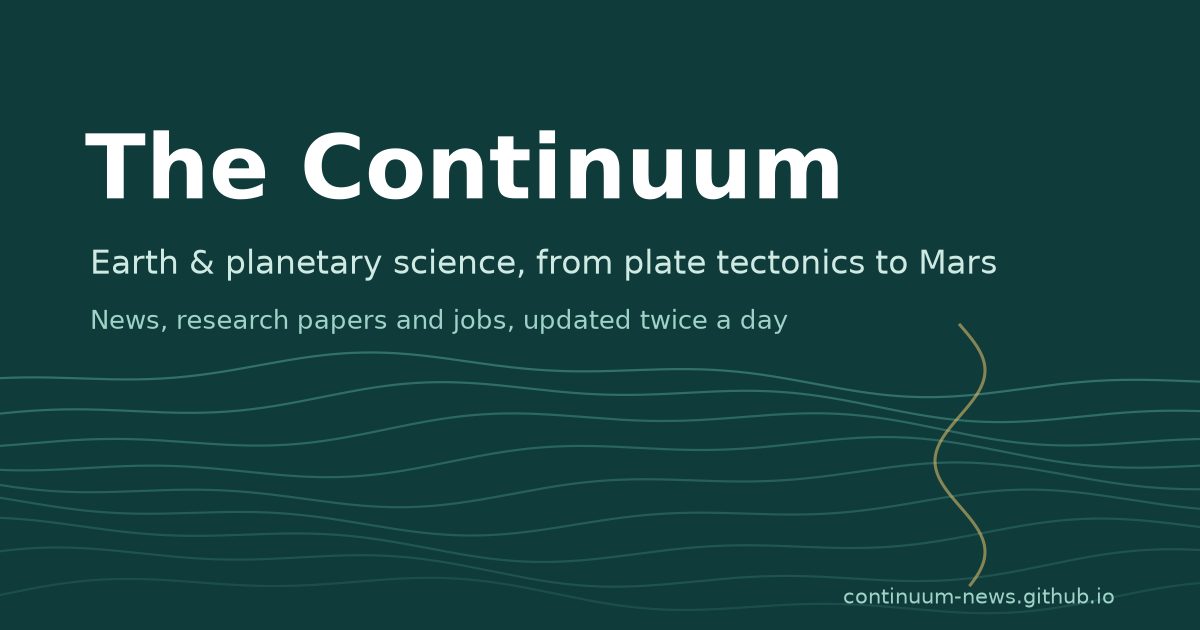
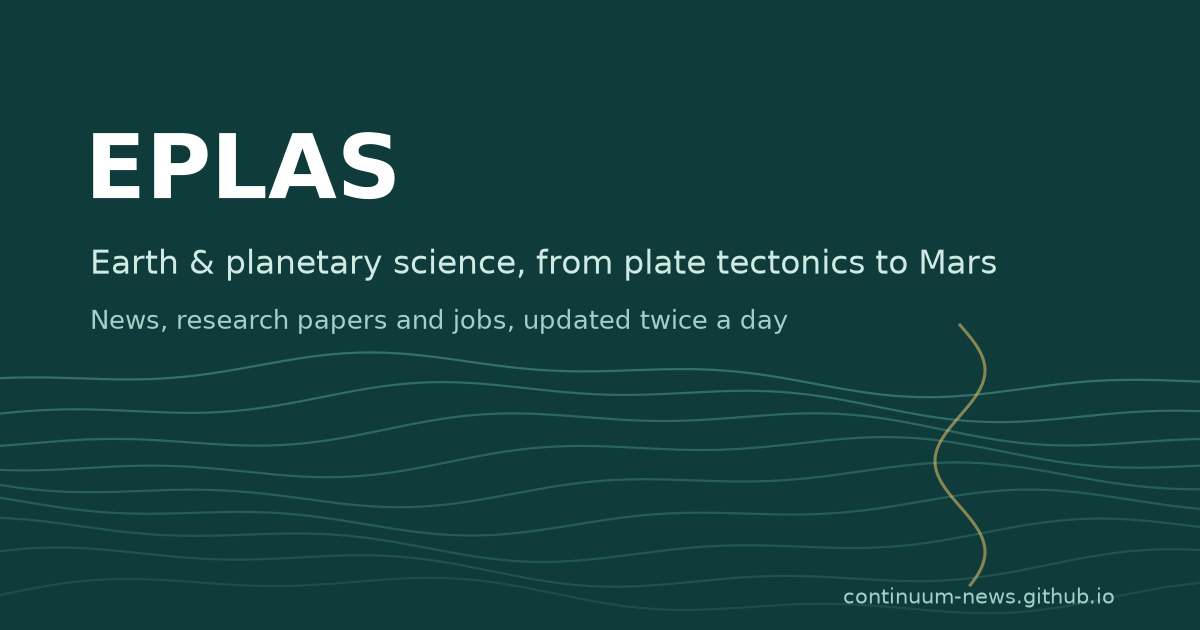
Rename the site to EPLAS (Earth & Planetary Science)

Changed region(s): [[0.0617, 0.2111, 0.7092, 0.3317]]

diff --git a/collector/heg_site.html b/collector/heg_site.html
@@ -1,17 +1,17 @@
-<title>The Continuum · news, papers and jobs</title>
+<title>EPLAS · Earth &amp; planetary science news, papers and jobs</title>
 <meta name="description" content="News, research papers and jobs across Earth and planetary science: geology, plate tectonics, volcanoes and earthquakes, hydrogeology, engineering geology, paleontology, ecology, geophysics, Mars and planetary geology, climate and policy. Updated twice a day.">
 <meta name="robots" content="index, follow">
 <link rel="canonical" href="https://continuum-news.github.io/">
 <meta property="og:type" content="website">
-<meta property="og:site_name" content="The Continuum">
-<meta property="og:title" content="The Continuum · news, papers and jobs">
+<meta property="og:site_name" content="EPLAS">
+<meta property="og:title" content="EPLAS · Earth &amp; planetary science news, papers and jobs">
 <meta property="og:description" content="Earth and planetary science, from plate tectonics and fossils to groundwater and Mars: the day's news, new research papers and open jobs, updated twice a day.">
 <meta property="og:url" content="https://continuum-news.github.io/">
 <meta property="og:image" content="https://continuum-news.github.io/og-image.png">
 <meta property="og:image:width" content="1200">
 <meta property="og:image:height" content="630">
 <meta name="twitter:card" content="summary_large_image">
-<meta name="twitter:title" content="The Continuum · news, papers and jobs">
+<meta name="twitter:title" content="EPLAS · Earth &amp; planetary science news, papers and jobs">
 <meta name="twitter:description" content="Earth and planetary science: news, research papers and jobs, updated twice a day.">
 <meta name="twitter:image" content="https://continuum-news.github.io/og-image.png">
 <meta name="theme-color" content="#0f3b3a">
@@ -332,7 +332,7 @@ footer ul { columns: 3 200px; margin: 8px 0 0; padding-left: 18px; }
 </style>
 
 <header class="top"><div class="wrap">
-  <div class="brand"><h1>The <span>Continuum</span></h1><small>Earth &amp; planetary science · news, research papers and jobs</small></div>
+  <div class="brand"><h1><span>EPLAS</span></h1><small>Earth &amp; planetary science · news, research papers, jobs and conferences</small></div>
   <nav class="tabs" aria-label="Sections">
     <a href="#today">Today</a><a href="#branches">Branches</a><a href="#news">News</a><a href="#papers">Papers</a><a href="#jobs">Jobs</a><a href="#conferences">Conferences</a><a href="#community">Community</a>
   </nav>
@@ -618,7 +618,7 @@ function ics(list) {
   const now = new Date().toISOString().replace(/[-:]/g, "").slice(0, 15) + "Z";
   const ev = list.map((m) => ["BEGIN:VEVENT", `UID:${m.id}@continuum-news.github.io`, `DTSTAMP:${now}`, `DTSTART;VALUE=DATE:${stamp(m.start)}`, `DTEND;VALUE=DATE:${stamp(nextDay(m.end))}`,
     `SUMMARY:${x(m.name)}`, `LOCATION:${x(where(m))}`, `DESCRIPTION:${x(`${m.org}\n${m.url}`)}`, `URL:${m.url}`, "END:VEVENT"].join("\r\n"));
-  return ["BEGIN:VCALENDAR", "VERSION:2.0", "PRODID:-//The Continuum//Conferences//EN", "CALSCALE:GREGORIAN", ...ev, "END:VCALENDAR"].join("\r\n");
+  return ["BEGIN:VCALENDAR", "VERSION:2.0", "PRODID:-//EPLAS//Conferences//EN", "CALSCALE:GREGORIAN", ...ev, "END:VCALENDAR"].join("\r\n");
 }
 function saveIcs(list, name) {
   const a = document.createElement("a");
@@ -669,7 +669,7 @@ const STARTS = [
   { slug: "q-a", name: "Ask a question", emoji: "🙏", about: "Methods, software, field problems, papers you can't make sense of. Mark the reply that answered it." },
   { slug: "show-and-tell", name: "Share your work", emoji: "🙌", about: "A paper, map, dataset, field photo, code or thesis. Tell people what you found." },
   { slug: "general", name: "Start a conversation", emoji: "💬", about: "Anything Earth and planetary: news you want to discuss, collaborators you're looking for, a hello." },
-  { slug: "ideas", name: "Suggest an idea", emoji: "💡", about: "Sources, branches or features you'd like to see on The Continuum." },
+  { slug: "ideas", name: "Suggest an idea", emoji: "💡", about: "Sources, branches or features you'd like to see on EPLAS." },
   { slug: "polls", name: "Run a poll", emoji: "🗳", about: "Ask the community to vote: favourite field software, conference plans, anything." },
 ];
 function newThread(slug, extra = {}) {
@@ -689,7 +689,7 @@ function viewCommunity() {
   const items = COMM.items || [];
   const shown = items.filter((t) => !S.cfield || t.labels.includes(S.cfield));
   return `<div class="comm">
-    <div class="comm-hero"><div><small>The Continuum community</small><h2>Talk Earth and planetary science with people who do it</h2>
+    <div class="comm-hero"><div><small>The EPLAS community</small><h2>Talk Earth and planetary science with people who do it</h2>
       <p>Ask questions, share your work, find collaborators and swap career advice with students, researchers and professionals in every branch, from groundwater to Mars.</p>
       <div class="mact"><a class="btn primary" href="${esc(newThread("general"))}" target="_blank" rel="noopener">Start a discussion</a><a class="btn" href="${FORUM}" target="_blank" rel="noopener">Browse the forum</a></div>
       <p class="fine">The forum runs on GitHub Discussions. Reading is open to everyone; posting needs a free GitHub account.</p></div></div>

diff --git a/collector/heg_body.html b/collector/heg_body.html
@@ -1,17 +1,17 @@
-<title>The Continuum · news, papers and jobs</title>
+<title>EPLAS · Earth &amp; planetary science news, papers and jobs</title>
 <meta name="description" content="News, research papers and jobs across Earth and planetary science: geology, plate tectonics, volcanoes and earthquakes, hydrogeology, engineering geology, paleontology, ecology, geophysics, Mars and planetary geology, climate and policy. Updated twice a day.">
 <meta name="robots" content="index, follow">
 <link rel="canonical" href="https://continuum-news.github.io/">
 <meta property="og:type" content="website">
-<meta property="og:site_name" content="The Continuum">
-<meta property="og:title" content="The Continuum · news, papers and jobs">
+<meta property="og:site_name" content="EPLAS">
+<meta property="og:title" content="EPLAS · Earth &amp; planetary science news, papers and jobs">
 <meta property="og:description" content="Earth and planetary science, from plate tectonics and fossils to groundwater and Mars: the day's news, new research papers and open jobs, updated twice a day.">
 <meta property="og:url" content="https://continuum-news.github.io/">
 <meta property="og:image" content="https://continuum-news.github.io/og-image.png">
 <meta property="og:image:width" content="1200">
 <meta property="og:image:height" content="630">
 <meta name="twitter:card" content="summary_large_image">
-<meta name="twitter:title" content="The Continuum · news, papers and jobs">
+<meta name="twitter:title" content="EPLAS · Earth &amp; planetary science news, papers and jobs">
 <meta name="twitter:description" content="Earth and planetary science: news, research papers and jobs, updated twice a day.">
 <meta name="twitter:image" content="https://continuum-news.github.io/og-image.png">
 <meta name="theme-color" content="#0f3b3a">
@@ -161,7 +161,7 @@
 </style>
 
 <header class="top"><div class="wrap">
-  <div class="brand"><h1>The <span>Continuum</span></h1><small>Earth &amp; planetary science · news, research papers and jobs</small></div>
+  <div class="brand"><h1><span>EPLAS</span></h1><small>Earth &amp; planetary science · news, research papers, jobs and conferences</small></div>
   <nav class="tabs" aria-label="Sections">
     <a href="#today">Today</a><a href="#branches">Branches</a><a href="#news">News</a><a href="#papers">Papers</a><a href="#jobs">Jobs</a><a href="#conferences">Conferences</a><a href="#community">Community</a>
   </nav>
@@ -447,7 +447,7 @@ function ics(list) {
   const now = new Date().toISOString().replace(/[-:]/g, "").slice(0, 15) + "Z";
   const ev = list.map((m) => ["BEGIN:VEVENT", `UID:${m.id}@continuum-news.github.io`, `DTSTAMP:${now}`, `DTSTART;VALUE=DATE:${stamp(m.start)}`, `DTEND;VALUE=DATE:${stamp(nextDay(m.end))}`,
     `SUMMARY:${x(m.name)}`, `LOCATION:${x(where(m))}`, `DESCRIPTION:${x(`${m.org}\n${m.url}`)}`, `URL:${m.url}`, "END:VEVENT"].join("\r\n"));
-  return ["BEGIN:VCALENDAR", "VERSION:2.0", "PRODID:-//The Continuum//Conferences//EN", "CALSCALE:GREGORIAN", ...ev, "END:VCALENDAR"].join("\r\n");
+  return ["BEGIN:VCALENDAR", "VERSION:2.0", "PRODID:-//EPLAS//Conferences//EN", "CALSCALE:GREGORIAN", ...ev, "END:VCALENDAR"].join("\r\n");
 }
 function saveIcs(list, name) {
   const a = document.createElement("a");
@@ -498,7 +498,7 @@ const STARTS = [
   { slug: "q-a", name: "Ask a question", emoji: "🙏", about: "Methods, software, field problems, papers you can't make sense of. Mark the reply that answered it." },
   { slug: "show-and-tell", name: "Share your work", emoji: "🙌", about: "A paper, map, dataset, field photo, code or thesis. Tell people what you found." },
   { slug: "general", name: "Start a conversation", emoji: "💬", about: "Anything Earth and planetary: news you want to discuss, collaborators you're looking for, a hello." },
-  { slug: "ideas", name: "Suggest an idea", emoji: "💡", about: "Sources, branches or features you'd like to see on The Continuum." },
+  { slug: "ideas", name: "Suggest an idea", emoji: "💡", about: "Sources, branches or features you'd like to see on EPLAS." },
   { slug: "polls", name: "Run a poll", emoji: "🗳", about: "Ask the community to vote: favourite field software, conference plans, anything." },
 ];
 function newThread(slug, extra = {}) {
@@ -518,7 +518,7 @@ function viewCommunity() {
   const items = COMM.items || [];
   const shown = items.filter((t) => !S.cfield || t.labels.includes(S.cfield));
   return `<div class="comm">
-    <div class="comm-hero"><div><small>The Continuum community</small><h2>Talk Earth and planetary science with people who do it</h2>
+    <div class="comm-hero"><div><small>The EPLAS community</small><h2>Talk Earth and planetary science with people who do it</h2>
       <p>Ask questions, share your work, find collaborators and swap career advice with students, researchers and professionals in every branch, from groundwater to Mars.</p>
       <div class="mact"><a class="btn primary" href="${esc(newThread("general"))}" target="_blank" rel="noopener">Start a discussion</a><a class="btn" href="${FORUM}" target="_blank" rel="noopener">Browse the forum</a></div>
       <p class="fine">The forum runs on GitHub Discussions. Reading is open to everyone; posting needs a free GitHub account.</p></div></div>

diff --git a/collector/make_og_image.py b/collector/make_og_image.py
@@ -24,7 +24,7 @@ for i, base in enumerate(np.linspace(0.35, 2.55, 9)):
 t = np.linspace(0, 1, 120)
 ax.plot(9.6 + 0.25 * np.sin(t * 9), 3.05 - 2.6 * t, color="#e9c46a", alpha=0.55, linewidth=2.2)
 
-ax.text(0.85, 4.55, "The Continuum", color="white", fontsize=64, fontweight="bold", va="center", family="DejaVu Sans")
+ax.text(0.85, 4.55, "EPLAS", color="white", fontsize=64, fontweight="bold", va="center", family="DejaVu Sans")
 ax.text(0.9, 3.65, "Earth & planetary science, from plate tectonics to Mars", color="#cfe9e3", fontsize=24, va="center")
 ax.text(0.9, 3.08, "News, research papers and jobs, updated twice a day", color="#9fd3c7", fontsize=19, va="center")
 ax.text(11.15, 0.32, "continuum-news.github.io", color="#9fd3c7", fontsize=15, ha="right", va="center")

diff --git a/collector/community.py b/collector/community.py
@@ -34,7 +34,7 @@ EMOJI = {":mega:": "📣", ":speech_balloon:": "💬", ":bulb:": "💡", ":ballo
 def fetch(token):
     body = json.dumps({"query": QUERY, "variables": {"owner": OWNER, "name": NAME}}).encode()
     req = urllib.request.Request("https://api.github.com/graphql", data=body, headers={
-        "Authorization": f"bearer {token}", "Content-Type": "application/json", "User-Agent": "continuum-community"})
+        "Authorization": f"bearer {token}", "Content-Type": "application/json", "User-Agent": "eplas-community"})
     with urllib.request.urlopen(req, timeout=30) as response:
         data = json.load(response)
     if data.get("errors"):

diff --git a/README.md b/README.md
@@ -1,7 +1,7 @@
-# The Continuum
+# EPLAS: Earth & Planetary Science
 
-An informal, automatically updated digest of news, research papers and jobs in hydrology, soil science
-and environmental geophysics. Not affiliated with any university.
+EPLAS (Earth & Planetary Science) is an informal, automatically updated digest of news, research papers, jobs,
+conferences and community discussion across every branch of Earth and planetary science. Not affiliated with any university.
 
 News, research papers and jobs across these themes: soil moisture and salinity, coastal
 interfaces and flooding, wetlands and biogeochemistry, plants and trees, groundwater, contamination,
@@ -15,7 +15,7 @@ Summaries are the opening lines of each source's own article; every item links t
 LinkedIn, Indeed and Handshake do not allow other sites to collect their listings, so the Jobs page
 links to the same search on those sites instead.
 
-- Update now: Actions → "Update The Continuum" → Run workflow.
+- Update now: Actions → "Update EPLAS" → Run workflow.
 - Add a feed: append to `SOURCES` (news) or `JOB_BOARDS` / `JOB_QUERIES` (jobs) in the collector.
 - Headings: keyword rules are in `RULES`. Themes: `THEMES` in `collector/heg_body.html`; rebuild the
   page with `python collector/build_template.py <path to the shared news_site.html>`.
